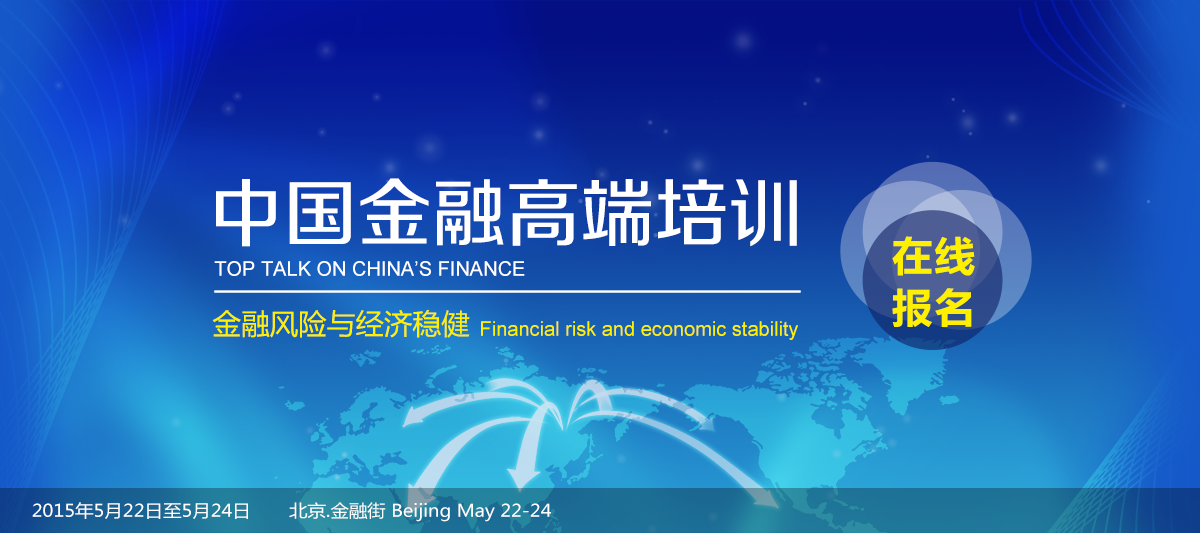
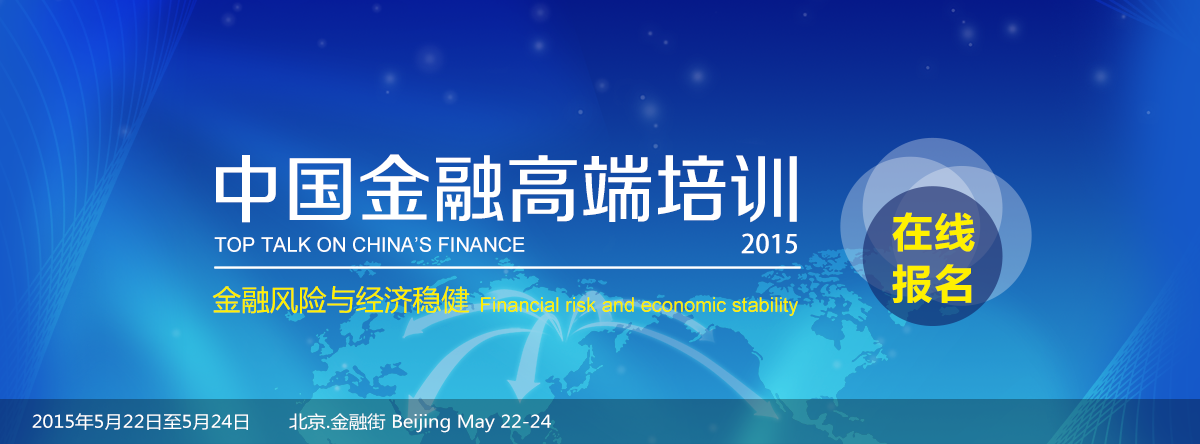
add file by wangpengfei

diff --git a/App/View/Home/gdpx_index.html b/App/View/Home/gdpx_index.html
@@ -9,7 +9,7 @@
     <div class="header">
       <a href="http://www.chinacft.org/" target="_blank"><img class="logo" src="/resource/img/f_logo_w.png" alt="中国金融培训中心" height="65" width="359"></a>
       <h1>
-        <img src="/resource/img/banner_use.png" alt="2015中国金融高端培训" width="1200" height="533">
+        <img src="/resource/img/banner_use.png" alt="2015中国金融高端培训" width="1200" height="444">
       </h1>
       <a class="zxbm" href="http://www.nebulafe.com/gdpx/apply/" target="_blank"></a>
     </div>
@@ -36,24 +36,26 @@
     <div class="content clearfix">
       <div class="contentLeft">
         <h2 class="indexH2 firstH2" id="gdlt_bj">背景</h2>
-        <p>中国经济发展已经进入“新常态”，金融业的改革与发展正处在关键时刻，尤其是随着利率市场化和存款保险制度步伐的加快，以及互联网金融的兴起，整个金融业正面临着前所未有的机遇和挑战。作为金融从业人员，有必要顺应时势，充分理解和认识新常态，不断提高风险管理能力。基于此，“中国金融高端培训”将于2015年5月下旬在北京举办。</p>
+        <p>中国经济发展已经进入“新常态”，金融业的改革与发展正处在关键时刻，尤其是随着利率市场化和存款保险制度步伐的加快，以及互联网金融的兴起，整个金融业正面临着前所未有的机遇和挑战。作为金融从业人员，有必要顺应时势，充分理解和认识新常态，不断提高风险管控能力。基于此，“中国金融高端培训”（2015）将于2015年5月22日至24日在北京金融街举办。</p>
+        <h2 class="indexH2" id="gdlt_zj">培训简介</h2>
+        <p>中国金融高端培训是经中国人民银行总行批准，由中国人民银行总行直属中国金融培训中心主办的公益性培训项目。参与授课专家有来自国内外金融管理部门领导、国际顶级经济学大师，以及国际知名金融机构高管。中国金融高端培训是中外金融领域专家、学者以及业界同行探讨金融发展新趋势，分享金融发展新成果，探索金融发展新问题的高水平、多层次交流平台。</p>
         <h2 class="indexH2" id="gdlt_zj">主讲嘉宾</h2>
         <h3 class="indexH3">Darrell Duffie 教授</h3>
         <div class="people-wrap">
            <div class="p-img"><img src="/resource/img/darrell_duffie.jpg" alt="Darrell Duffie教授"></div>
            <p>Darrell Duffie，1984年获得斯坦福大学博士学位并开始斯坦福大学任教，现为现为斯坦福商学院金融学Dean Witter Distinguished教授，其研究的主要领域为资产定价、风险和管理、信用风险建模，以及固定收益证券和股票市场，在国际上享有很高的知名度。Duffie教授1995年当选为美国经济计量学会会士，2008年当选美国经济计量学会理事会成员；2000年至今为美国金融学会董事会成员，2009-2010年当选为美国金融学会主席。Duffie教授现为纽约联储金融顾问，美国艺术和科学院院士，国家经济研究局研究员，他目前还是金融稳定理事会主管的市场主体集团的主席，专为包括伦敦同业市场拆借利率、欧洲同业市场拆借利率在内的市场利率基准的改革提供政策建议。Duffie的主要著作包括《证券市场》（1988年）、《动态资产定价》（1992年）、《信用风险》（2003年）、《大银行是如何倒闭的》（2010）、《公司违约风险度量》（2011年）以及《暗黑市场》（2012）等。</p>
         </div>
-        <h2 class="indexH2" id="gdlt_hg">往期回顾</h2>
+        <h2 class="indexH2" id="gdlt_hg">精彩观点</h2>
         <div class="jchg clearfix">
           <ul>
-            <li class="firstPic"><img src="/resource/img/jchg_1.jpg" class="firstPic" width="184" height="117" alt="">
-              <span>中国人民银行副行长<br>易纲</span>
-            </li>
-            <li><a href="http://www.chinacft.org/demo/gdpx/1.html" target="_blank"><img src="/resource/img/jchg_2.jpg" width="184" height="117" alt="">
+            <li class="firstPic"><a href="http://www.chinacft.org/demo/gdpx/1.html" target="_blank"><img src="/resource/img/jchg_2.jpg" width="184" height="117" alt="">
               <span>2011诺贝尔经济学奖获得者<br>托马斯•萨金特</span></a>
             </li>
             <li><a href="http://www.chinacft.org/demo/gdpx/2.html" target="_blank"><img src="/resource/img/jchg_3.jpg" width="184" height="117" alt="">
               <span>哈佛大学经济学教授<br>罗伯特•巴罗</span></a>
+            </li>
+            <li><img src="/resource/img/jchg_1.jpg" class="firstPic" width="184" height="117" alt="">
+              <span>中国人民银行副行长<br>易纲</span>
             </li>
           </ul>
         </div>
@@ -68,24 +70,28 @@
         <div class="pxnr">
           <p class="tit" id="gdlt_pxnr">培训内容</p>
           <ul class="pxnrList">
-            <li>中国经济形势与金融改革</li>
-            <li>中国的利率、汇率改革政策</li>
-            <li>美联储近期货币与监管政策</li>
-            <li>全球金融市场波动与监管</li>
-            <li>商业银行战略与转型创新</li>
-            <li>商业银行的兼并与重组</li>
+            <li>培训主题:<br>金融风险与经济稳健</li>
+            <li>主要内容:<br>探讨年度金融领域前沿性重大热点问题，<br>特别是注重探讨对中国金融发展具有深刻影响的金融风险防控等相关论题。</li>
           </ul>
           <a href="/gdpx/schedule" class="rcap" target="_blank">培训日程安排</a>
         </div>
         <div class="pxdx">
           <p class="tit">培训对象</p>
           <ul>
-            <li>金融机构风险管理相关岗位拥有三年及以上工作经验从业人员</li>
-            <li>国内外院校、科研院所相关专业具有较强研究专长的骨干教师及研究人员</li>
-            <li>高等院校本科大三以上经济专业在校学生，具有金融英语中级及以上证书者优先</li>
             <li>人民银行和部分国家中央银行官员以及部分地方政府相关官员</li>
+            <li>金融机构风险管理相关岗位拥有三年及以上工作经验的负责人员</li>
+            <li>国内高等院校、科研院所相关专业具有较强研究专长的骨干教师及研究人员</li>
+            <li>国内高等院校、科研院所本科大三以上经济类专业在校学生，具有金融英语考试（FECT）中级及以上证书者优先</li>
           </ul>
         </div>
+        <div class="lxwm">
+          <p class="tit">联系我们</p>
+          <p><span class="pink">姚&nbsp;&nbsp;&nbsp;&nbsp;&nbsp;&nbsp;翔：</span> 010-66199373 / 18600068838 <br><a class="m-email" href="mailto:yxiang@pbc.gov.cn">yxiang@pbc.gov.cn</a></p>
+          <p><span class="pink">张&nbsp;&nbsp;&nbsp;&nbsp;&nbsp;&nbsp;浩：</span> 010-66199324 / 18600068825 <br><a class="m-email" href="mailto:zhhao@pbc.gov.cn">zhhao@pbc.gov.cn</a></p>
+          <p><span class="pink">通信地址：</span>北京市西城区成方街32号中国人民银行中国金融培训中心<br></p>
+          <p><span class="pink">邮&nbsp;&nbsp;&nbsp;&nbsp;&nbsp;&nbsp;编：</span>100800<br></p>
+          <p><span class="pink">传&nbsp;&nbsp;&nbsp;&nbsp;&nbsp;&nbsp;真：</span>010-88091587<br></p>
+       </div>
       </div>
     </div>
   </div>

diff --git a/App/View/a_footer.html b/App/View/a_footer.html
@@ -1,9 +1,4 @@
 <footer class="bs-docs-footer" id="footer" role="contentinfo">
-  <div class="footer-contacts text-center">
-    <div class="c-people">联系人:申老师 010-66199372 / 18600068850<br>郭老师 010-66199346 / 15901024221</div>
-    <div class="c-emails">传真：010-88091587<br>邮箱：gdpx@chinacft.org</div>
-    <div class="c-address">通信地址：北京市西城区成方街32号中国人民银行中国金融培训中心，邮编100800<br>工作地点：北京市西城区金融街35号国际企业大厦A座7层B区。</div>
-  </div>
   <div class="footer-copyright text-center">版权所有：中国金融培训中心 京ICP备12001307号 Copyright©www.chinacft.org All Rights Reserved </div>
 </footer>
 <script src="http://libs.baidu.com/jquery/2.0.0/jquery.min.js"></script>

diff --git a/www/resource/css/gdpx.css b/www/resource/css/gdpx.css
@@ -145,8 +145,8 @@ body,a{
 .header .zxbm{
   display: inline-block;
   position: absolute;
-  top: 234px;
-  right: 211px;
+  top: 207px;
+  right: 215px;
   width: 100px;
   height: 100px;
 }
@@ -262,9 +262,6 @@ body,a{
   height:260px;
   position:relative;
 }
-.lxwm{
-  height:354px;
-}
 .zxdt .tit,.pxnr .tit,.pxdx .tit,.lxwm .tit{
   color:#31B9E1;
   font-size:18px;
@@ -280,7 +277,7 @@ body,a{
 .rcap{
   position:absolute;
   right:0;
-  bottom:18px;
+  bottom:12px;
   width:120px;
   padding-left:14px;
   font:16px/34px "微软雅黑";
@@ -294,6 +291,10 @@ body,a{
 }
 .lxwm .pink{
   color:#31B9E1;
+}
+.lxwm p .m-email{
+  padding-left: 70px;
+  color: #1d1c1a;
 }
 .nav-logo{
   position: absolute;

diff --git a/App/View/Home/gdpx_apply.html b/App/View/Home/gdpx_apply.html
@@ -76,8 +76,9 @@
           <label for="career">职业<em class="text-danger">*</em></label>
           <select class="form-control input-lg" name="career" placeholder="职业" id="s_career">
             <option></option>
-            <option>教师</option>
+            <option>公务员</option>
             <option>金融机构从业人员</option>
+            <option>教师</option>
             <option>学生</option>
             <option>其他</option>
           </select>

diff --git a/www/resource/css/layout.css b/www/resource/css/layout.css
@@ -132,6 +132,10 @@ input, button, textarea, select {
   -moz-transform: scale(1.2);
   -o-transform: scale(1.2);
 }
+footer{
+  border-top: 1px solid #d4d4d4;
+  width: 100%;
+}
 .footer-sns {
   padding-top:30px;
 }
@@ -288,10 +292,6 @@ form.activity,div.activity{
 }
 img.a-logo{
   margin-top: 4px;
-}
-footer{
-  border-top: 1px solid #d4d4d4;
-  width: 100%;
 }
 .activity .form-control{
   width: 97%;
